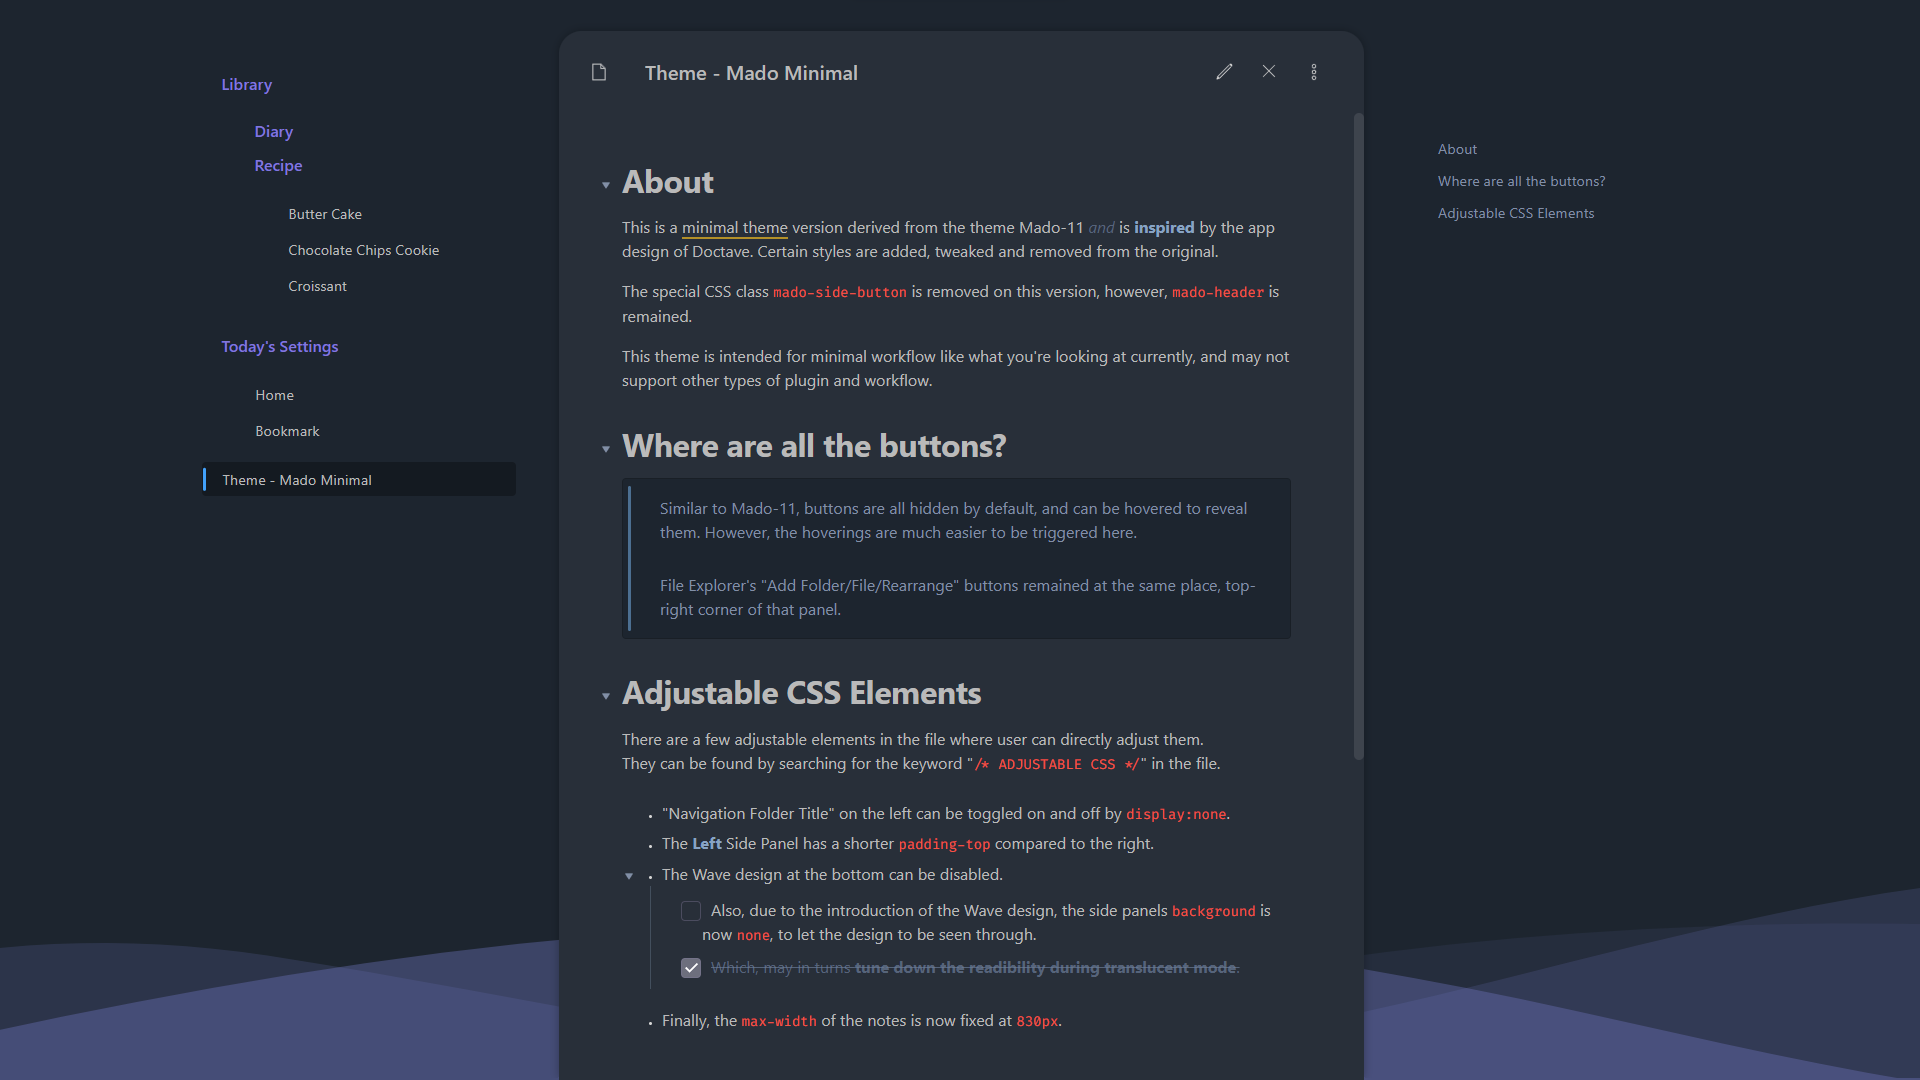
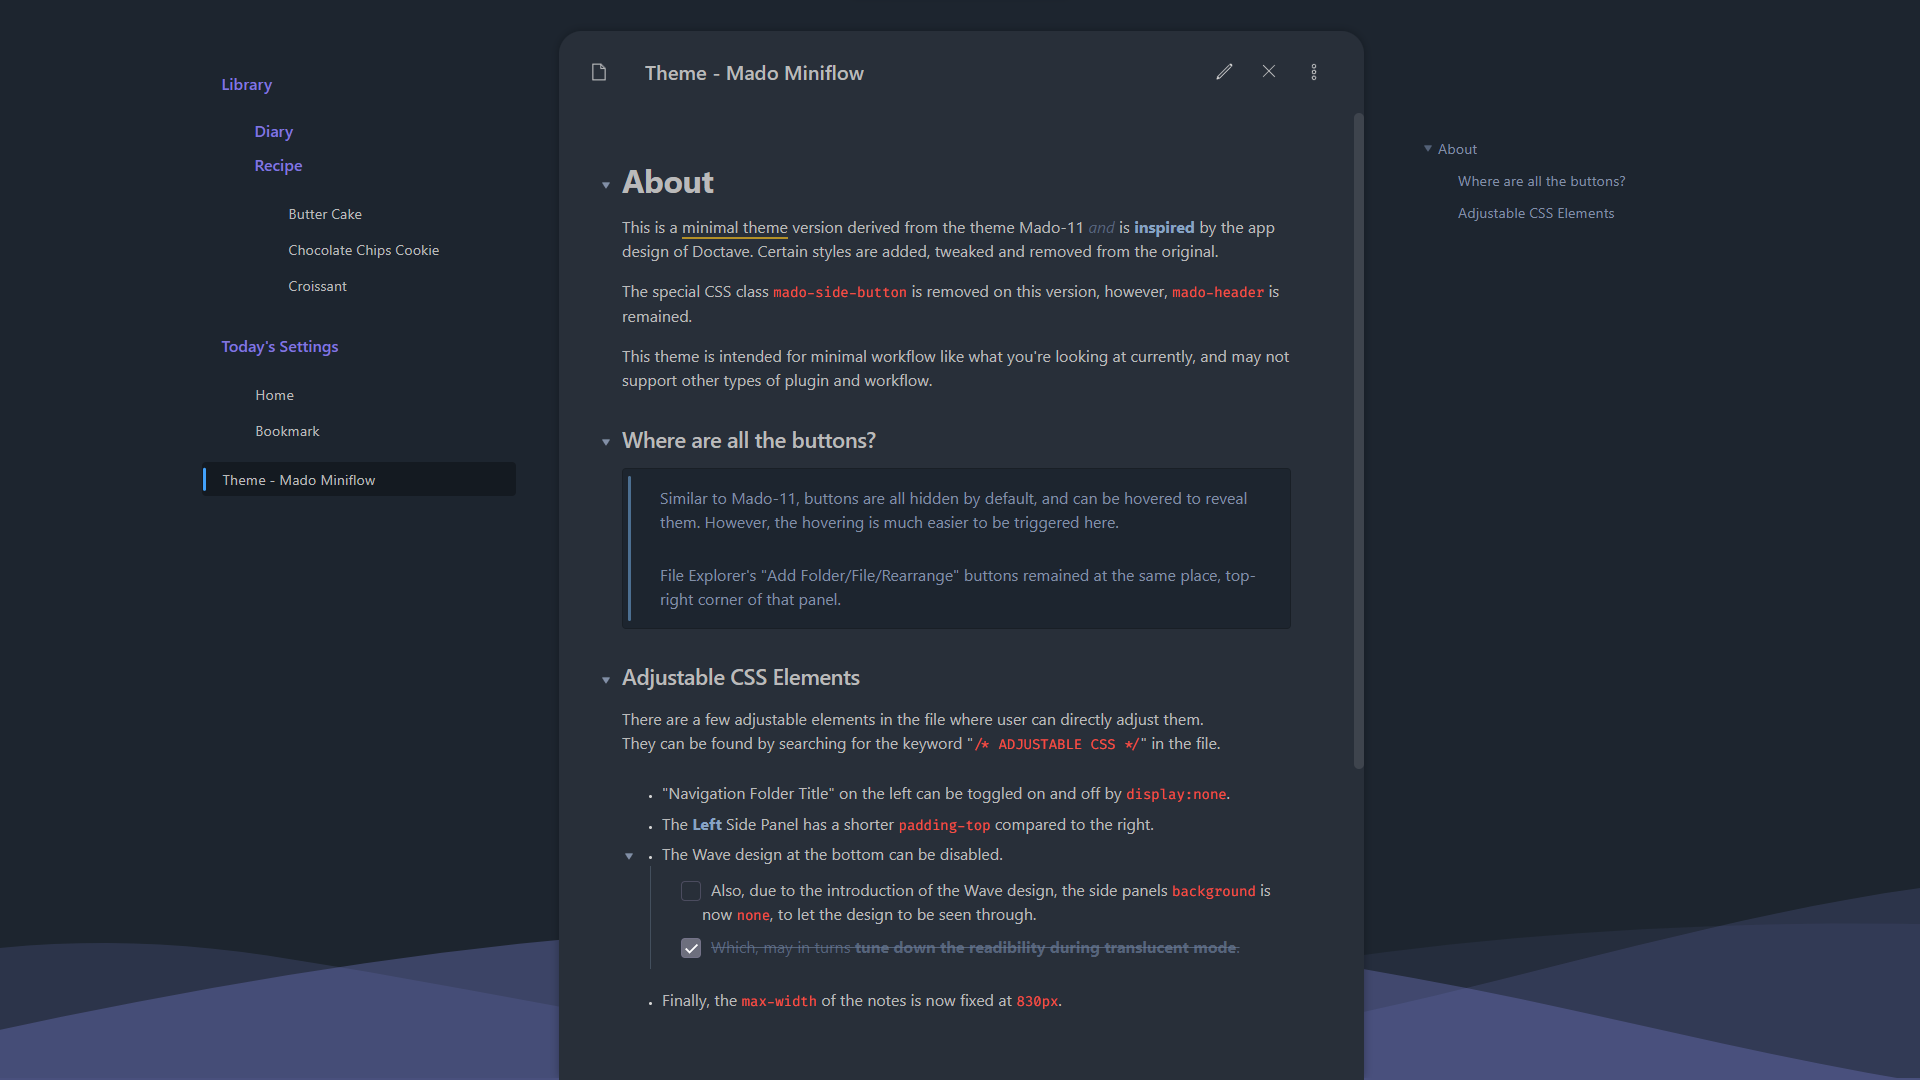
update name of the theme

diff --git a/README.md b/README.md
@@ -1,5 +1,6 @@
-# Obsidian Theme - Mado Minimal
+# Obsidian Theme - Mado Miniflow
 This is a minimal theme version derived from the theme [Mado-11](https://github.com/hydescarf/Obsidian-Theme-Mado-11) and is inspired by the app design of [Doctave](https://www.doctave.com/). Certain styles are added, tweaked and removed from the original theme.
+The wave design is made with https://www.shapedivider.app/
 
 The special CSS class `mado-side-button` is removed on this version, however, `mado-header` is remained.
 
